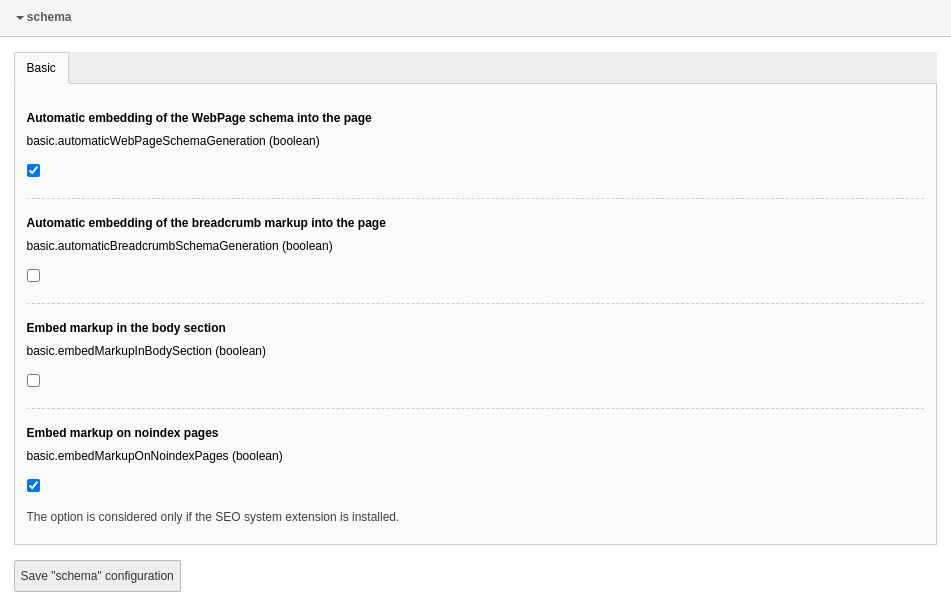
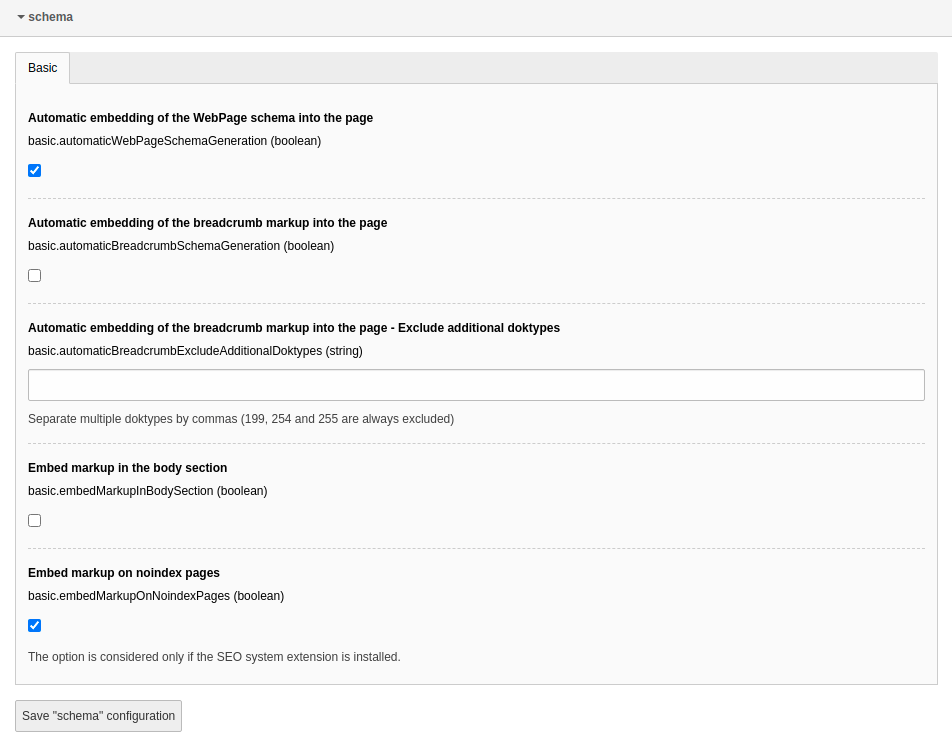
[FEATURE] Add config to exclude doktypes for automatic breadcrumb
Related: #84

diff --git a/Tests/Unit/EventListener/AddBreadcrumbListTest.php b/Tests/Unit/EventListener/AddBreadcrumbListTest.php
@@ -27,7 +27,7 @@ use TYPO3\CMS\Core\Utility\GeneralUtility;
 use TYPO3\CMS\Frontend\ContentObject\ContentObjectRenderer;
 use TYPO3\CMS\Frontend\Controller\TypoScriptFrontendController;
 
-class AddBreadcrumbListTest extends TestCase
+final class AddBreadcrumbListTest extends TestCase
 {
     use SchemaCacheTrait;
 
@@ -89,18 +89,21 @@ class AddBreadcrumbListTest extends TestCase
      */
     public function noBreadcrumbIsAddedWhenItShouldNotBeEmbeddedViaConfiguration(): void
     {
-        $this->setAutomaticBreadcrumbSchemaGenerationConfigurationSetting(false);
+        $this->setExtensionConfiguration(false);
         $this->subject->__invoke($this->event);
 
         self::assertSame([], $this->event->getAdditionalTypes());
     }
 
-    private function setAutomaticBreadcrumbSchemaGenerationConfigurationSetting(bool $value): void
+    private function setExtensionConfiguration(bool $automaticGeneration, string $excludeAdditionalDoktypes = ''): void
     {
         $this->extensionConfigurationStub
             ->method('get')
-            ->with(Extension::KEY, 'automaticBreadcrumbSchemaGeneration')
-            ->willReturn($value);
+            ->with(Extension::KEY)
+            ->willReturn([
+                'automaticBreadcrumbSchemaGeneration' => $automaticGeneration ? '1' : '0',
+                'automaticBreadcrumbExcludeAdditionalDoktypes' => $excludeAdditionalDoktypes,
+            ]);
     }
 
     /**
@@ -108,7 +111,7 @@ class AddBreadcrumbListTest extends TestCase
      */
     public function withEmptyRootLineNoBreadcrumbIsAdded(): void
     {
-        $this->setAutomaticBreadcrumbSchemaGenerationConfigurationSetting(true);
+        $this->setExtensionConfiguration(true);
         $this->typoScriptFrontendControllerStub->rootLine = [];
         $this->subject->__invoke($this->event);
 
@@ -121,7 +124,7 @@ class AddBreadcrumbListTest extends TestCase
      */
     public function breadcrumbIsAddedCorrectly(array $rootLine, string $expected): void
     {
-        $this->setAutomaticBreadcrumbSchemaGenerationConfigurationSetting(true);
+        $this->setExtensionConfiguration(true, '42,43');
         $this->typoScriptFrontendControllerStub->rootLine = $rootLine;
         $this->contentObjectRendererStub
             ->method('typoLink_URL')
@@ -384,6 +387,48 @@ class AddBreadcrumbListTest extends TestCase
             ],
             '{"@context":"https://schema.org/","@type":"BreadcrumbList","itemListElement":{"@type":"ListItem","item":{"@type":"WebPage","@id":"https://example.org/the-page/"},"name":"A page","position":"1"}}',
         ];
+
+        yield 'Doktype 43 (which is excluded via extension configuration) should not be rendered' => [
+            [
+                4 => [
+                    'uid' => 2,
+                    'doktype' => PageRepository::DOKTYPE_DEFAULT,
+                    'title' => 'A page on level 3',
+                    'nav_title' => '',
+                    'nav_hide' => '0',
+                    'is_siteroot' => '0',
+                    'tx_schema_webpagetype' => '',
+                ],
+                3 => [
+                    'uid' => 2,
+                    'doktype' => 43,
+                    'title' => 'A page on level 2',
+                    'nav_title' => '',
+                    'nav_hide' => '0',
+                    'is_siteroot' => '0',
+                    'tx_schema_webpagetype' => '',
+                ],
+                2 => [
+                    'uid' => 2,
+                    'doktype' => PageRepository::DOKTYPE_DEFAULT,
+                    'title' => 'A page on level 1',
+                    'nav_title' => '',
+                    'nav_hide' => '0',
+                    'is_siteroot' => '0',
+                    'tx_schema_webpagetype' => '',
+                ],
+                1 => [
+                    'uid' => 1,
+                    'doktype' => PageRepository::DOKTYPE_DEFAULT,
+                    'title' => 'Site root page',
+                    'nav_title' => '',
+                    'nav_hide' => '0',
+                    'is_siteroot' => '1',
+                    'tx_schema_webpagetype' => '',
+                ],
+            ],
+            '{"@context":"https://schema.org/","@type":"BreadcrumbList","itemListElement":[{"@type":"ListItem","item":{"@type":"WebPage","@id":"https://example.org/the-page/"},"name":"A page on level 1","position":"1"},{"@type":"ListItem","item":{"@type":"WebPage","@id":"https://example.org/the-page/"},"name":"A page on level 3","position":"2"}]}',
+        ];
     }
 
     /**
@@ -391,7 +436,7 @@ class AddBreadcrumbListTest extends TestCase
      */
     public function breadcrumbIsSortedCorrectly(): void
     {
-        $this->setAutomaticBreadcrumbSchemaGenerationConfigurationSetting(true);
+        $this->setExtensionConfiguration(true);
         $typoLinkMap = [
             [
                 [
@@ -485,7 +530,7 @@ class AddBreadcrumbListTest extends TestCase
      */
     public function rootLineWithDifferentWebPageTypeSet(): void
     {
-        $this->setAutomaticBreadcrumbSchemaGenerationConfigurationSetting(true);
+        $this->setExtensionConfiguration(true);
         $this->typoScriptFrontendControllerStub->rootLine = [
             2 => [
                 'uid' => 2,

diff --git a/Classes/EventListener/AddBreadcrumbList.php b/Classes/EventListener/AddBreadcrumbList.php
@@ -16,6 +16,7 @@ use Brotkrueml\Schema\Event\RenderAdditionalTypesEvent;
 use Brotkrueml\Schema\Type\TypeFactory;
 use TYPO3\CMS\Core\Configuration\ExtensionConfiguration;
 use TYPO3\CMS\Core\Domain\Repository\PageRepository;
+use TYPO3\CMS\Core\Utility\GeneralUtility;
 use TYPO3\CMS\Frontend\ContentObject\ContentObjectRenderer;
 use TYPO3\CMS\Frontend\Controller\TypoScriptFrontendController;
 
@@ -24,14 +25,14 @@ use TYPO3\CMS\Frontend\Controller\TypoScriptFrontendController;
  */
 final class AddBreadcrumbList
 {
-    private const DOKTYPES_TO_EXCLUDE = [
+    private const DEFAULT_DOKTYPES_TO_EXCLUDE = [
         PageRepository::DOKTYPE_RECYCLER,
         PageRepository::DOKTYPE_SPACER,
         PageRepository::DOKTYPE_SYSFOLDER,
     ];
 
     private TypoScriptFrontendController $controller;
-    private ExtensionConfiguration $configuration;
+    private ExtensionConfiguration $extensionConfiguration;
     private ContentObjectRenderer $contentObjectRenderer;
 
     public function __construct(
@@ -40,18 +41,24 @@ final class AddBreadcrumbList
         TypoScriptFrontendController $controller
     ) {
         $this->contentObjectRenderer = $contentObjectRenderer;
-        $this->configuration = $configuration;
+        $this->extensionConfiguration = $configuration;
         $this->controller = $controller;
     }
 
     public function __invoke(RenderAdditionalTypesEvent $event): void
     {
-        $shouldEmbedBreadcrumbMarkup = (bool)$this->configuration->get('schema', 'automaticBreadcrumbSchemaGeneration');
-
+        $configuration = $this->extensionConfiguration->get('schema');
+        $shouldEmbedBreadcrumbMarkup = (bool)$configuration['automaticBreadcrumbSchemaGeneration'];
         if (! $shouldEmbedBreadcrumbMarkup) {
             return;
         }
 
+        $additionalDoktypesToExclude = GeneralUtility::intExplode(
+            ',',
+            $configuration['automaticBreadcrumbExcludeAdditionalDoktypes'],
+            true
+        );
+        $doktypesToExclude = \array_merge(self::DEFAULT_DOKTYPES_TO_EXCLUDE, $additionalDoktypesToExclude);
         $rootLine = [];
         foreach ($this->controller->rootLine as $page) {
             if ($page['is_siteroot'] ?? false) {
@@ -62,7 +69,7 @@ final class AddBreadcrumbList
                 continue;
             }
 
-            if (\in_array($page['doktype'] ?? PageRepository::DOKTYPE_DEFAULT, self::DOKTYPES_TO_EXCLUDE, true)) {
+            if (\in_array($page['doktype'] ?? PageRepository::DOKTYPE_DEFAULT, $doktypesToExclude, true)) {
                 continue;
             }
 

diff --git a/Documentation/Configuration/Index.rst b/Documentation/Configuration/Index.rst
@@ -68,6 +68,21 @@ Default value
    :ref:`view helpers <breadcrumb-viewhelpers>`).
 
 
+Automatic embedding of the breadcrumb markup into the page - Exclude additional doktypes
+----------------------------------------------------------------------------------------
+
+.. versionadded:: 2.3.0
+
+If the option :ref:`configuration-automaticBreadcrumbSchemaGeneration` is
+enabled, you can define additional doktypes, which will be excluded from the
+breadcrumb. Separate multiple doktypes with commas.
+
+The doktypes 199 (spacer), 254 (folder) and 255 (recycler) are always excluded.
+
+Default value
+   (empty)
+
+
 .. index:: Markup in body section
 
 .. _configuration-embedMarkupInBodySection:

diff --git a/Documentation/Changelog/Index.rst b/Documentation/Changelog/Index.rst
@@ -11,6 +11,12 @@ to `Semantic Versioning <https://semver.org/spec/v2.0.0.html>`_.
 `Unreleased <https://github.com/brotkrueml/schema/compare/v2.2.1...HEAD>`_
 ------------------------------------------------------------------------------
 
+Added
+^^^^^
+
+
+* Configuration to exclude custom doktypes when automatically generating the breadcrumb (#84)
+
 [2.2.2] - 2022-01-02
 --------------------
 

diff --git a/CHANGELOG.md b/CHANGELOG.md
@@ -7,6 +7,9 @@ to [Semantic Versioning](https://semver.org/spec/v2.0.0.html).
 
 ## [Unreleased]
 
+### Added
+- Configuration to exclude custom doktypes when automatically generating the breadcrumb (#84)
+
 ## [2.2.2] - 2022-01-02
 
 ### Fixed
